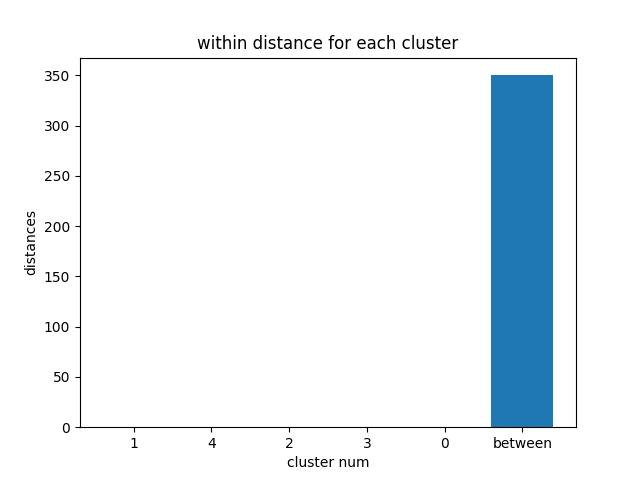
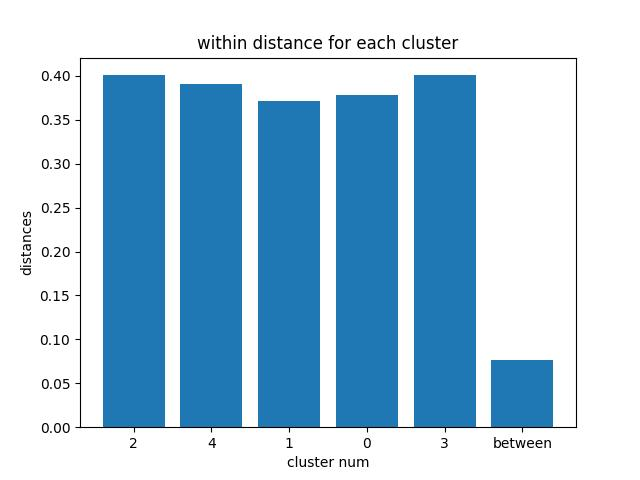
dist by cosine, plots

diff --git a/clustering.py b/clustering.py
@@ -5,9 +5,9 @@ import numpy as np
 from sklearn import preprocessing  # to normalise existing X
 from sklearn.cluster import KMeans
 from sklearn.metrics import silhouette_score
-from sklearn.metrics.pairwise import cosine_similarity
 
 from get_exp_data import Experiment
+from rank_based_accuracy_functions import cosine_similarity
 
 RESULTS_PATH = Path("results")
 
@@ -104,32 +104,60 @@ def run_kmeans(
     return cluster_nums_of_all_vectors, category_to_cluster, k
 
 
-def calculate_within_distance(cluster_dict):
-    within_distances = {}
+def calculate_within_similatiry(cluster_dict):
+    mean_within = {}
+    median_within = {}
+    similarity_values = {}
 
     # Iterate over each cluster in the dictionary
     for cluster_num, vectors in cluster_dict.items():
         cluster_size = len(vectors)
         if cluster_size <= 1:
-            within_distances[cluster_num] = 0.0
+            mean_within[cluster_num] = 1
+            median_within[cluster_num] = 1
             continue
 
         # Calculate the pairwise distances between vectors in the cluster using cosine similarity
-        distances = np.zeros((cluster_size, cluster_size))
+        similarity_list = []
         for i in range(cluster_size):
             for j in range(i + 1, cluster_size):
-                similarity = cosine_similarity([vectors[i]], [vectors[j]])
-                distances[i, j] = 1 - similarity[0, 0]
+                similarity = cosine_similarity(vectors[i], vectors[j])
+                similarity_list.append(similarity)
 
         # Calculate the sum of pairwise distances
-        within_distance = np.sum(distances) / (cluster_size * (cluster_size - 1))
+        mean_within_dist = np.mean(similarity_list)
+        median_within_dist = np.median(similarity_list)
+        print(mean_within_dist, median_within_dist)
 
-        within_distances[cluster_num] = within_distance
+        mean_within[cluster_num] = mean_within_dist
+        median_within[cluster_num] = median_within_dist
+        similarity_values[cluster_num] = similarity_list
+    return mean_within, median_within, similarity_values
 
-    return within_distances
+
+def calculate_between_similarity(cluster_dict):
+    # Compute the pairwise distances between centroids
+    cluster_nums = list(cluster_dict.keys())
+    num_clusters = len(cluster_nums)
+    similarity_list = []
+    for i in range(num_clusters):
+        for j in range(i + 1, num_clusters):
+            cluster_i = cluster_dict[i]
+            cluster_j = cluster_dict[j]
+            for vec_i in cluster_i:
+                for vec_j in cluster_j:
+                    # Calculate the pairwise distances between vectors in the cluster using cosine similarity
+                    similarity = cosine_similarity(vec_i, vec_j)
+                    similarity_list.append(similarity)
+
+    # Calculate the average pairwise distance between centroids
+    mean_between = np.mean(similarity_list)
+    median_between = np.mean(similarity_list)
+    print(mean_between, median_between)
+    return mean_between, median_between, similarity_list
 
 
-def calculate_between_distance(cluster_dict):
+def calculate_between_centorids_similarity(cluster_dict):
 
     # Calculate the centroid for each cluster
     centroids = {}
@@ -140,18 +168,19 @@ def calculate_between_distance(cluster_dict):
     # Compute the pairwise distances between centroids
     cluster_nums = list(cluster_dict.keys())
     num_clusters = len(cluster_nums)
-    distances = np.zeros((num_clusters, num_clusters))
+    similarity_list = []
     for i in range(num_clusters):
         for j in range(i + 1, num_clusters):
             centroid_i = centroids[cluster_nums[i]]
             centroid_j = centroids[cluster_nums[j]]
-            similarity = cosine_similarity(centroid_i - centroid_j)
-            distances[i, j] = 1 - similarity[0, 0]
+            similarity = cosine_similarity(centroid_i, centroid_j)
+            similarity_list.append(similarity)
 
     # Calculate the average pairwise distance between centroids
-    between_distance = np.sum(distances) / (num_clusters * (num_clusters - 1))
-
-    return between_distance
+    mean_between = np.mean(similarity_list)
+    median_between = np.mean(similarity_list)
+    print(mean_between, median_between)
+    return mean_between, median_between, similarity_list
 
 
 def create_fmri_to_cluster(category_to_cluster, exp: Experiment):
@@ -167,3 +196,19 @@ def create_fmri_to_cluster(category_to_cluster, exp: Experiment):
             fmri_dict[cluster].append(vec)
 
     return fmri_dict
+
+
+def plot_similarity_analysis(within_distances, between_distance, y_axis_label, title):
+    x_axis_label = "cluster num"
+    title = f"{y_axis_label} by {x_axis_label}"
+    distances = list(within_distances.values())
+    distances.append(between_distance)
+    clusters_list = list(within_distances.keys())
+    clusters_list.append("between")
+    clusters_list_str = [str(i) for i in clusters_list]
+    plt.bar(clusters_list_str, distances)
+    plt.xlabel(x_axis_label)
+    plt.ylabel(y_axis_label)
+    plt.title(title)
+    plt.savefig(RESULTS_PATH / f"{title} after clustring by {vector_type} k={k}.jpg")
+    plt.clf()

diff --git a/part_3_cluster_and_analyze.py b/part_3_cluster_and_analyze.py
@@ -5,9 +5,11 @@ import numpy as np
 
 from clustering import (
     RESULTS_PATH,
-    calculate_between_distance,
-    calculate_within_distance,
+    calculate_between_centorids_similarity,
+    calculate_between_similarity,
+    calculate_within_similatiry,
     create_fmri_to_cluster,
+    plot_similarity_analysis,
     run_kmeans,
 )
 from get_exp_data import Experiment
@@ -141,19 +143,20 @@ def analyze_clusters_distances(exp: Experiment, vector_type: str, k: int):
     fmri_to_clusters = create_fmri_to_cluster(
         category_to_cluster=category_to_cluster, exp=exp
     )
-    within_distances = calculate_within_distance(fmri_to_clusters)
-    clusters_list = list(within_distances.keys())
-    clusters_list.append("between")
-    distances = list(within_distances.values())
-    between_distance = calculate_between_distance(fmri_to_clusters)
-    distances.append(between_distance)
-    clusters_list_str = [str(i) for i in clusters_list]
-    plt.bar(clusters_list_str, distances)
-    plt.xlabel("cluster num")
-    plt.ylabel("distances")
-    plt.title("within distance for each cluster")
-    plt.savefig(RESULTS_PATH / f"distances after clustring by {vector_type} k={k}.jpg")
-    plt.clf()
+    # calc similarity
+    mean_within, median_within, similarity_values = calculate_within_similatiry(
+        fmri_to_clusters
+    )
+    mean_between, median_between, similarity_list = calculate_between_similarity(
+        fmri_to_clusters
+    )
+    # plot
+    plot_similarity_analysis(
+        mean_within, mean_between, y_axis_label="mean cosine similarity"
+    )
+    plot_similarity_analysis(
+        median_within, median_between, y_axis_label="median cosine similarity"
+    )
 
 
 if __name__ == "__main__":
